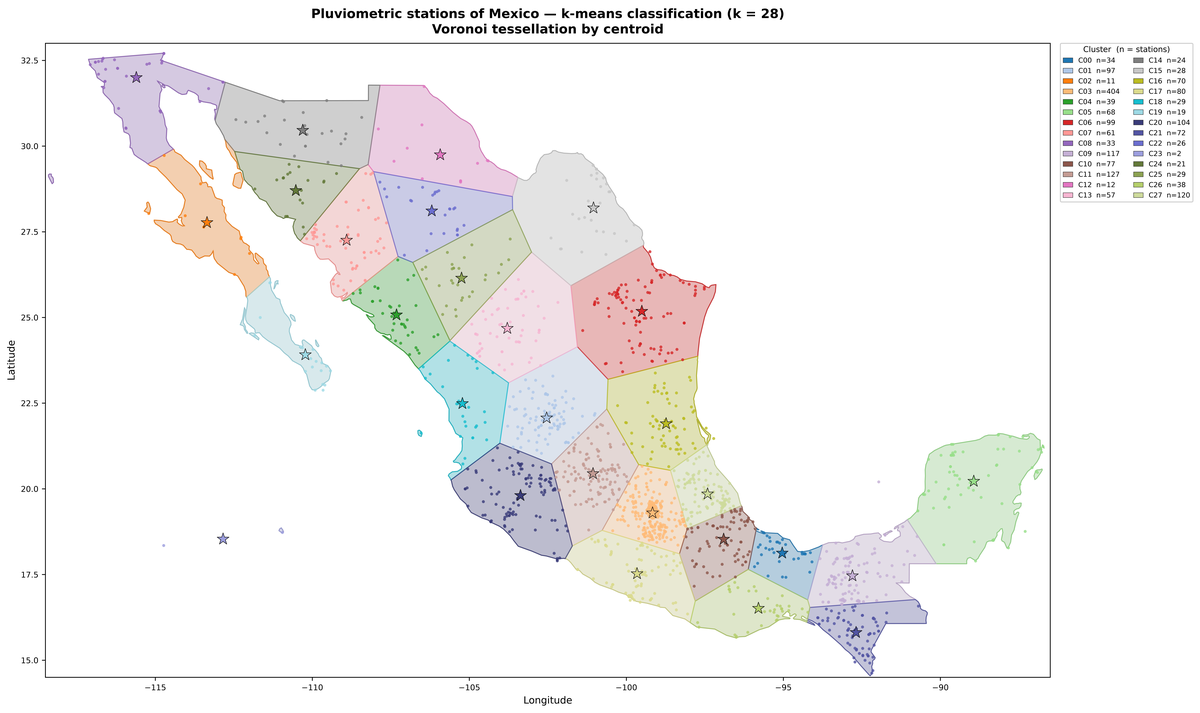
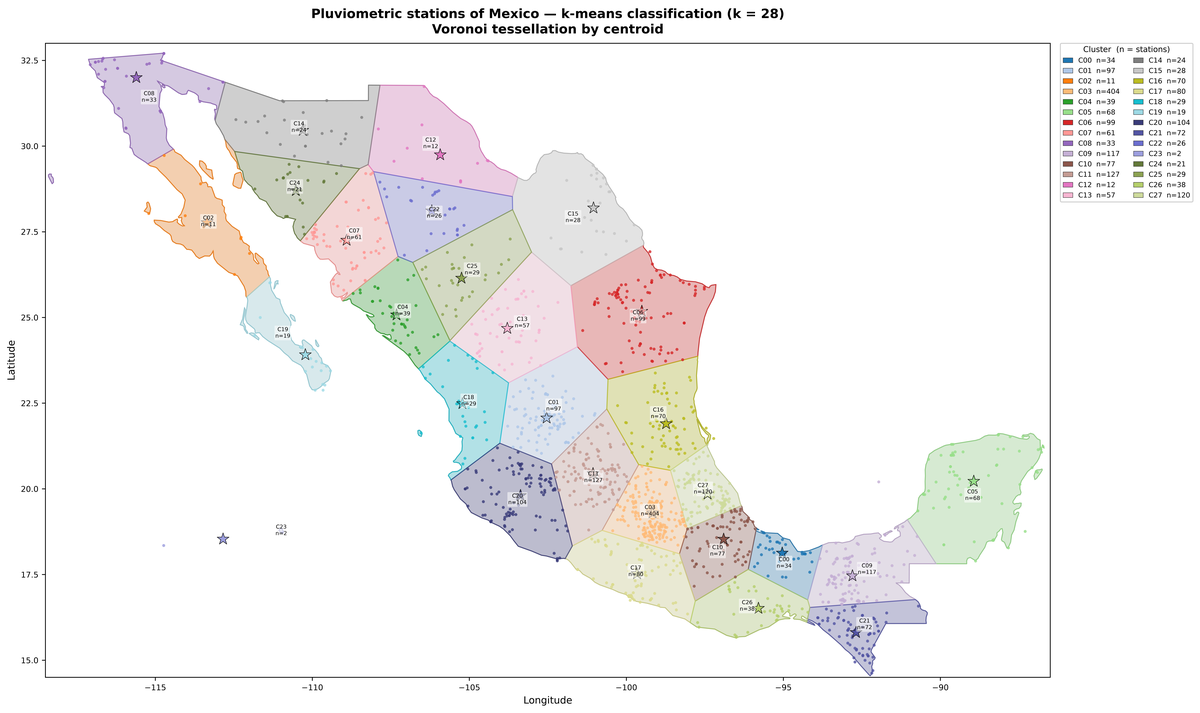
Se agregan etiquetas de cluster sobre celdas del mapa de Voronoi
Se añadió una capa de anotaciones textuales (Capa 5) en plot_voronoi_map de src/voronoi_map.py. Cada celda de Voronoi muestra ahora la etiqueta "CXX / n=N" posicionada sobre el centroide geométrico del polígono recortado (region.centroid), garantizando que el texto quede siempre dentro del área visible de la celda independientemente de la posición del centroide k-means.

Se actualizó la miniatura docs/assets/voronoi_k28.png con la figura regenerada.

Investigador: Dr. José Antonio Neme Castillo.
Estudiante: Luis García Rodríguez.
UNAM IIMAS PCIC / Grupo Anomalocaris.

diff --git a/src/voronoi_map.py b/src/voronoi_map.py
@@ -247,6 +247,7 @@ def plot_voronoi_map(
       2. Teselas de Voronoi semitransparentes.
       3. Puntos de estaciones coloreados por ``km_lab``.
       4. Centroides marcados con estrella.
+      5. Etiquetas (cXX, n=N) sobre el centroide geométrico de cada celda.
 
     Parameters
     ----------
@@ -297,6 +298,21 @@ def plot_voronoi_map(
             s=160, marker="*",
             color=colors[k_id], edgecolors="#111111",
             linewidths=0.5, zorder=5,
+        )
+
+    # — Capa 5: etiquetas sobre el centroide geométrico de cada celda de Voronoi
+    for k_id, region in enumerate(regions):
+        if region is None or region.is_empty:
+            continue
+        cx, cy = region.centroid.x, region.centroid.y
+        n = cluster_counts.get(k_id, 0)
+        ax.text(
+            cx, cy,
+            f"C{k_id:02d}\nn={n}",
+            ha="center", va="center",
+            fontsize=5.5,
+            zorder=6,
+            bbox=dict(boxstyle="round,pad=0.15", fc="white", ec="none", alpha=0.55),
         )
 
     # — Leyenda: 2 columnas fuera del área del mapa